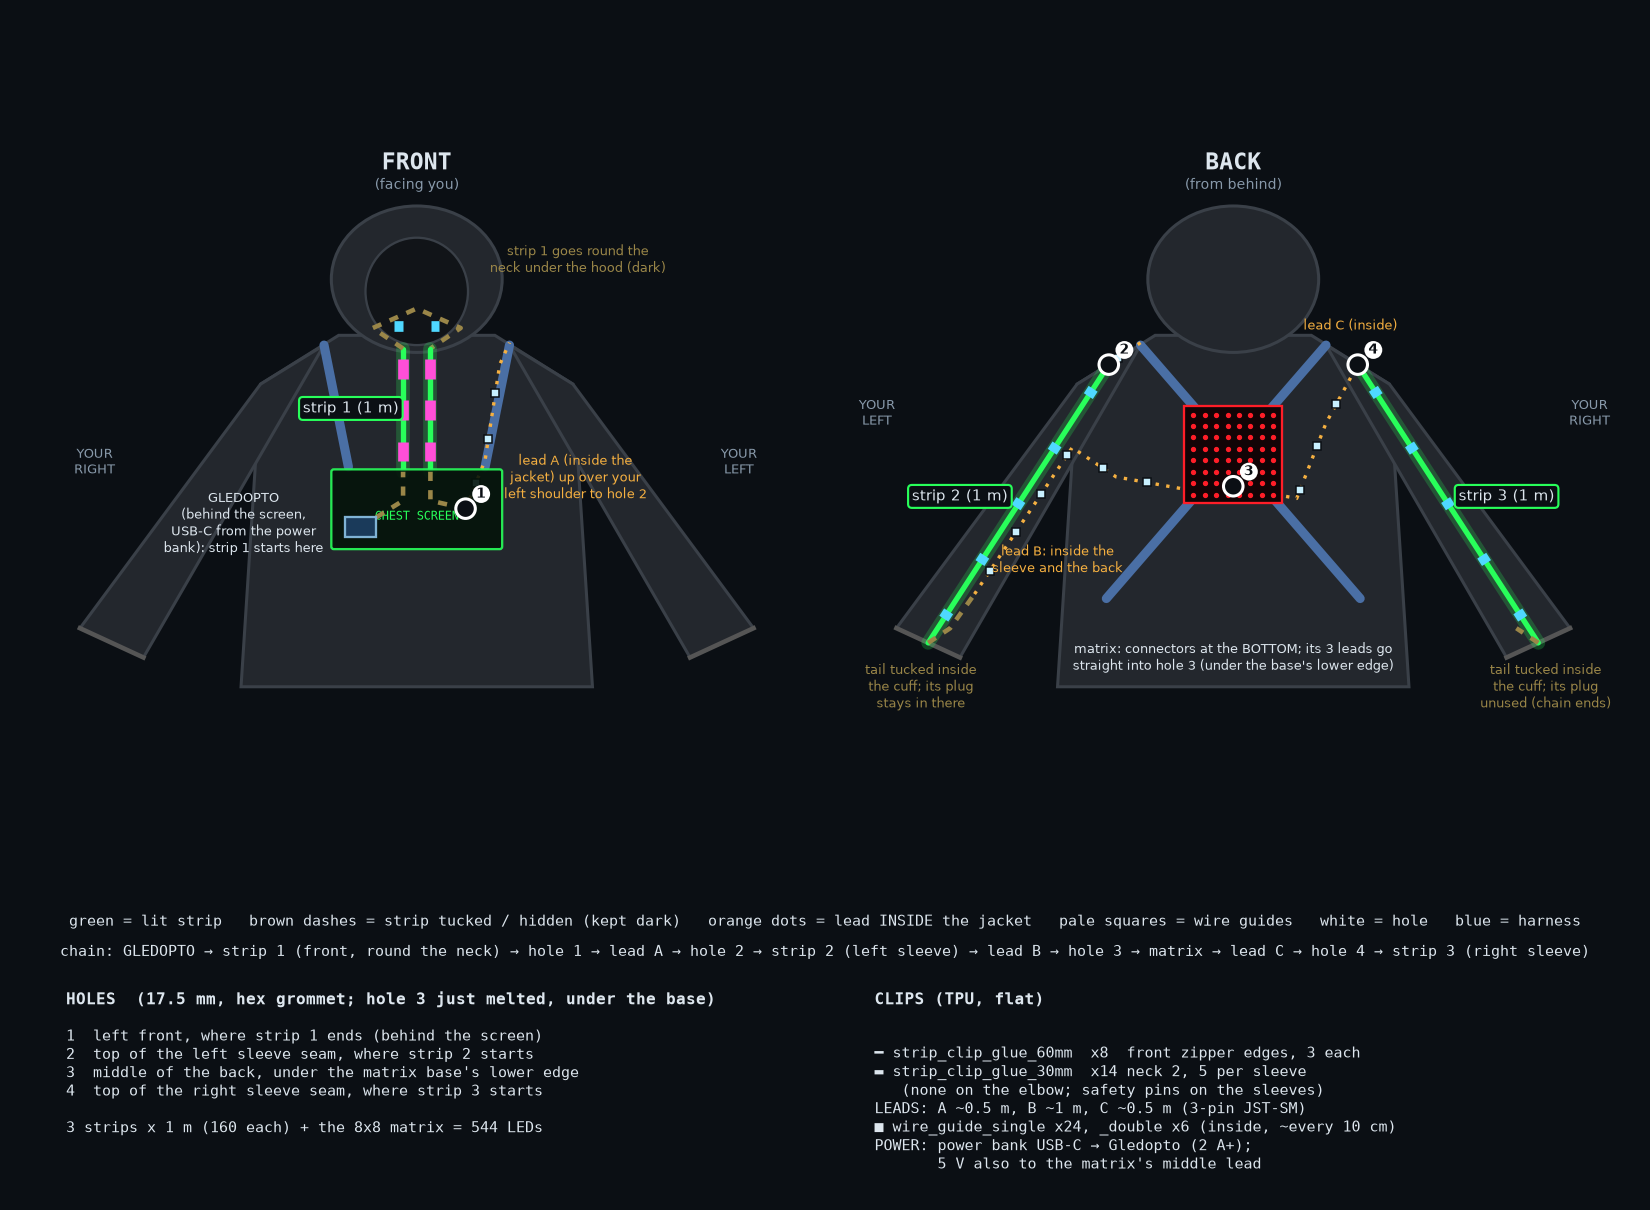
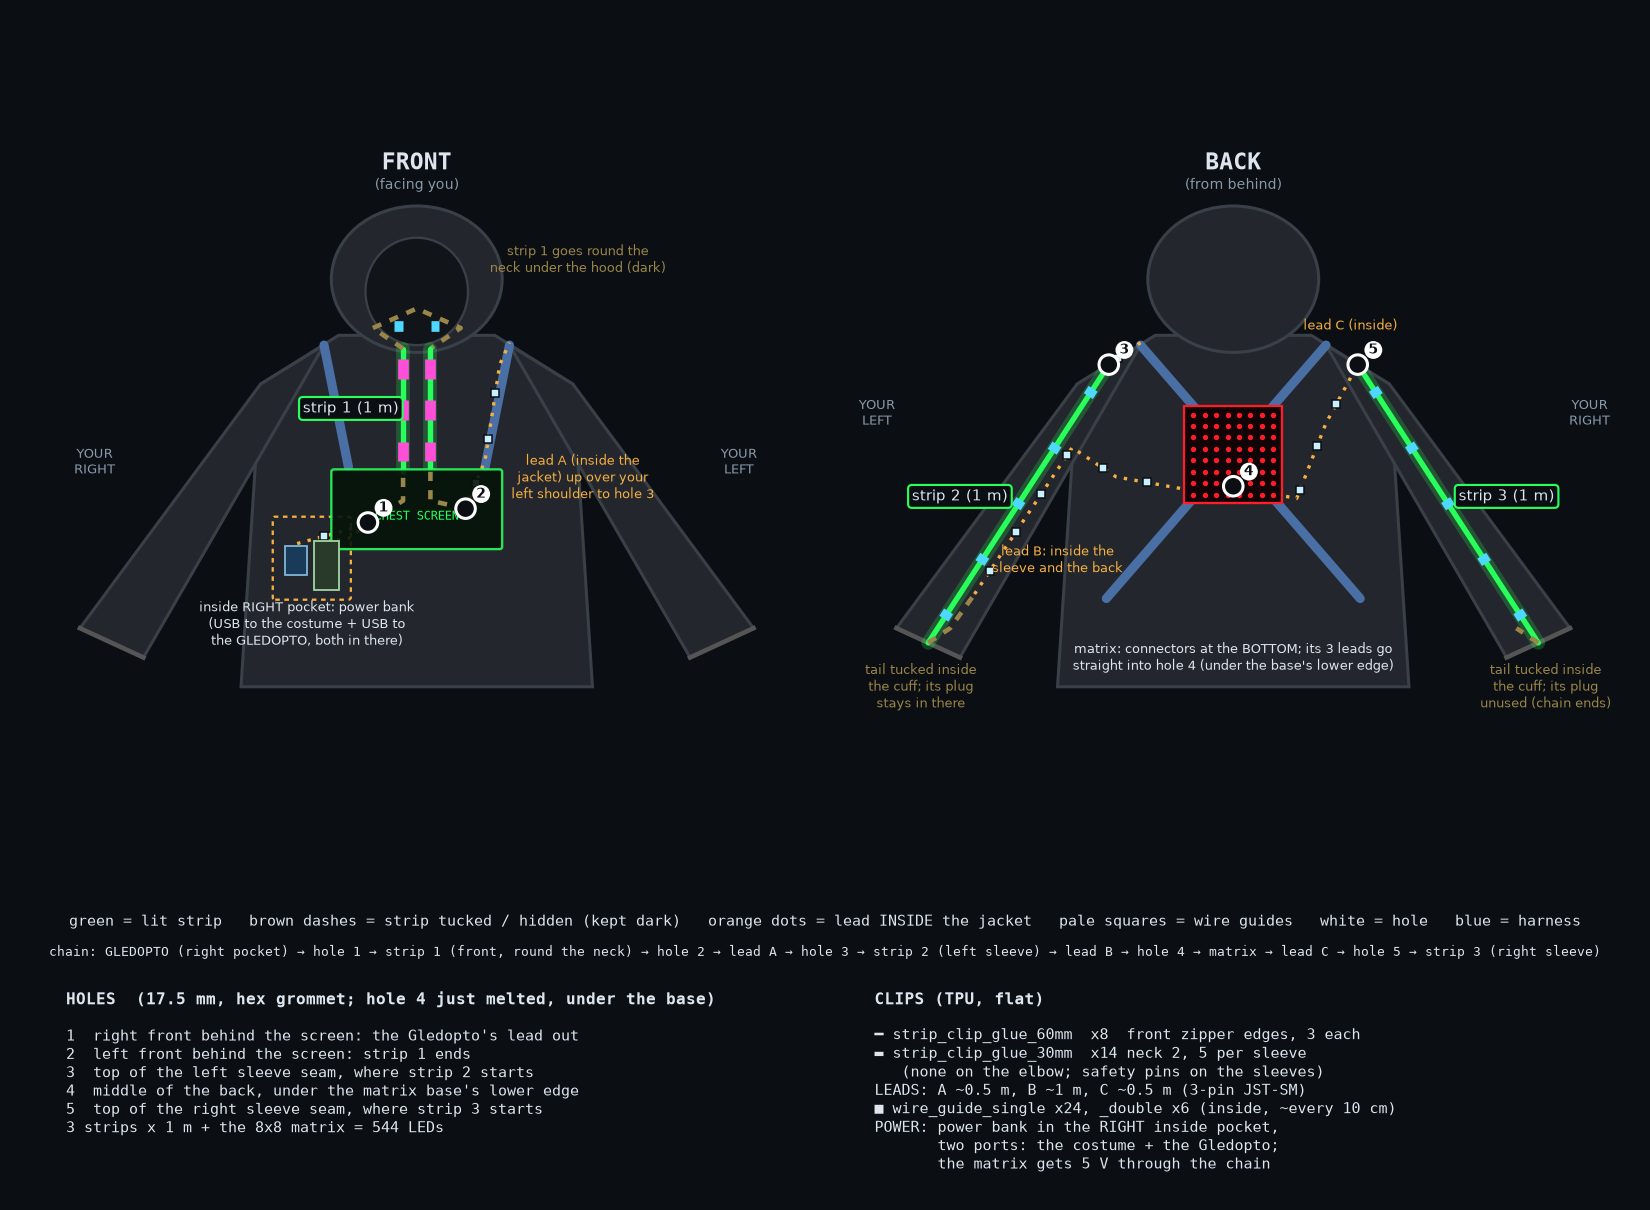
Jacket wiring: power bank and Gledopto in the right inside pocket, 5 holes

diff --git a/costume/README.md b/costume/README.md
@@ -359,28 +359,31 @@ costs no power.
 
 **Driven by the Gledopto** (`../ledlink`): it follows the costume over
 Bluetooth, and its output is a proper 5 V data signal (no level shifter or
-diode). It sits behind the chest screen on your right, powered from the power
-bank's second port (USB-C); its output lead is where strip 1 plugs in. The
-costume's own LED output stays off (`LED_STRIP_ENABLED 0`).
+diode). The power bank sits in the jacket's **right inside pocket** with the
+Gledopto: one port powers the costume (its USB up to the screen), the other the
+Gledopto, whose output lead comes out through hole **1** to start strip 1. The
+matrix gets its 5 V through the chain's leads. The costume's own LED output
+stays off (`LED_STRIP_ENABLED 0`).
 
 | | Strip | Where | LEDs (lit + dark) |
 |---|---|---|---|
-| 1 | 1 m | from the Gledopto (behind the screen, on your right): up behind the screen (15, dark); right zipper edge, screen top -> collar (45); round the neck under the hood (40, dark); left zipper edge, collar -> screen top (45); behind the screen (15, dark). Ends on your left front, behind the screen | 90 + 70 |
-| A | lead | strip 1's end -> through hole **1** (left front, behind the screen) -> inside, over your left shoulder -> out through hole **2** (top of the left sleeve) | ~0.5 m |
+| 1 | 1 m | from the Gledopto (right inside pocket) out through hole **1** (right front, behind the screen): up behind the screen (15, dark); right zipper edge, screen top -> collar (45); round the neck under the hood (40, dark); left zipper edge, collar -> screen top (45); behind the screen (15, dark). Ends at hole **2**, left front behind the screen | 90 + 70 |
+| A | lead | strip 1's end -> in through hole **2** (left front, behind the screen) -> inside, over your left shoulder -> out through hole **3** (top of the left sleeve) | ~0.5 m |
 | 2 | 1 m | left sleeve, shoulder -> cuff (98); the rest tucked inside the cuff (62, dark) | 98 + 62 |
-| B | lead | inside the left cuff, up inside the sleeve, across inside the back -> out through hole **3** (under the matrix) | ~1 m |
-| M | matrix | on the harness cross, connectors at the bottom; its three leads go straight into hole **3** (under the base's lower edge) | 64 |
-| C | lead | matrix out, inside the back, up to your right shoulder -> out through hole **4** (top of the right sleeve) | ~0.5 m |
+| B | lead | inside the left cuff, up inside the sleeve, across inside the back -> out through hole **4** (under the matrix) | ~1 m |
+| M | matrix | on the harness cross, connectors at the bottom; its three leads go straight into hole **4** (under the base's lower edge) | 64 |
+| C | lead | matrix out, inside the back, up to your right shoulder -> out through hole **5** (top of the right sleeve) | ~0.5 m |
 | 3 | 1 m | right sleeve, shoulder -> cuff (98); the rest tucked inside the cuff (62, dark) -- the last strip (its output plug stays tucked in the cuff, unused) | 98 + 62 |
 
 Holes in the jacket's outer shell (the leads run between shell and lining):
-**1** left front behind the screen, where strip 1 ends; **2** top of the left
-sleeve's seam, where strip 2 starts; **3** the middle of the back, under the
-matrix base's lead holes, near its lower edge (the matrix is mounted with its
-connectors at the bottom; the base hides the hole); **4** top of the right
-sleeve's seam, where strip 3 starts. Cut each hole 17.5 mm across and fit a grommet
+**1** right front behind the screen, the Gledopto's lead out; **2** left front
+behind the screen, where strip 1 ends; **3** top of the left sleeve's seam,
+where strip 2 starts; **4** the middle of the back, under the matrix base's
+lead holes near its lower edge (the matrix is mounted with its connectors at
+the bottom; the base hides the hole); **5** top of the right sleeve's seam,
+where strip 3 starts. Cut each hole 17.5 mm across and fit a grommet
 (`hardware/3dprint/grommet.stl`: a hex bezel, hot-glued on from outside
-through its glue holes) -- except hole 3, which the matrix base already covers:
+through its glue holes) -- except hole 4, which the matrix base already covers:
 there, melt the edges with a soldering iron (or a dab of fray glue) so the
 fabric doesn't run.
 
